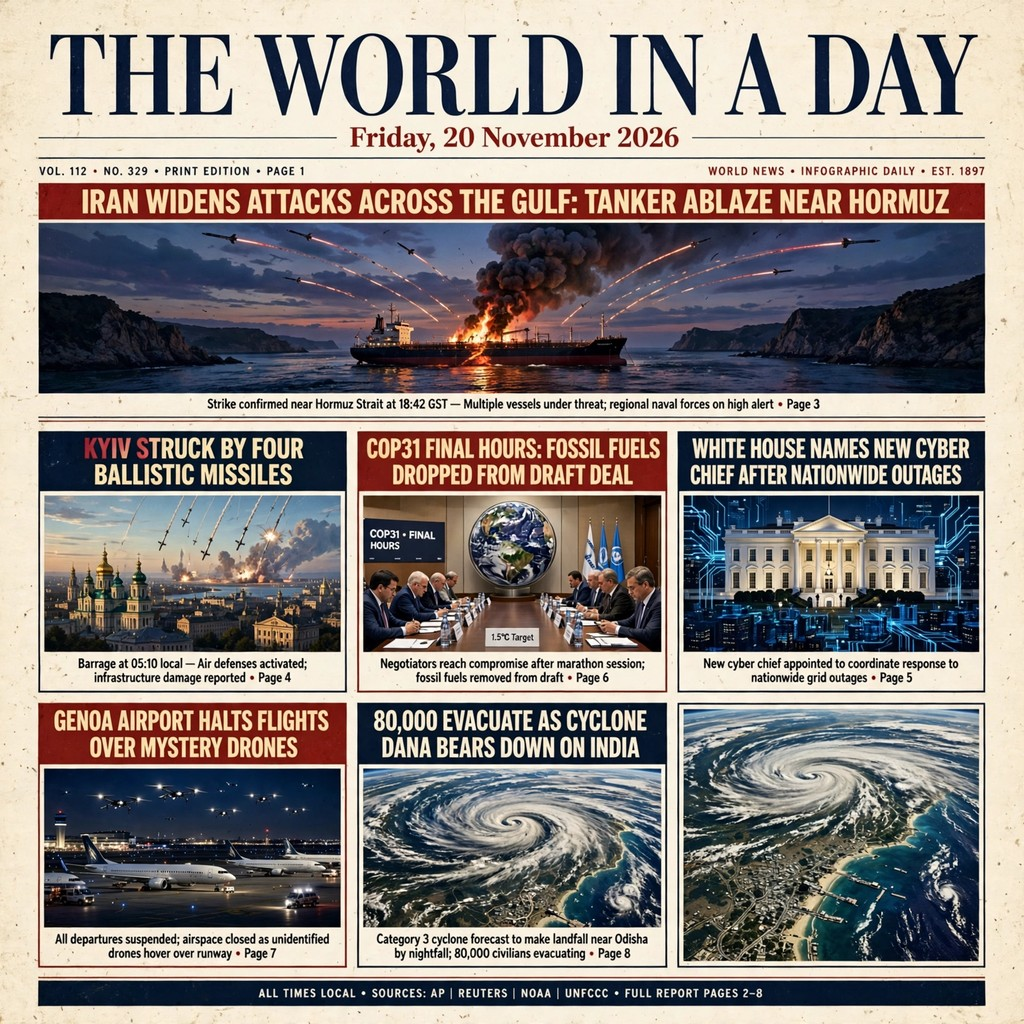
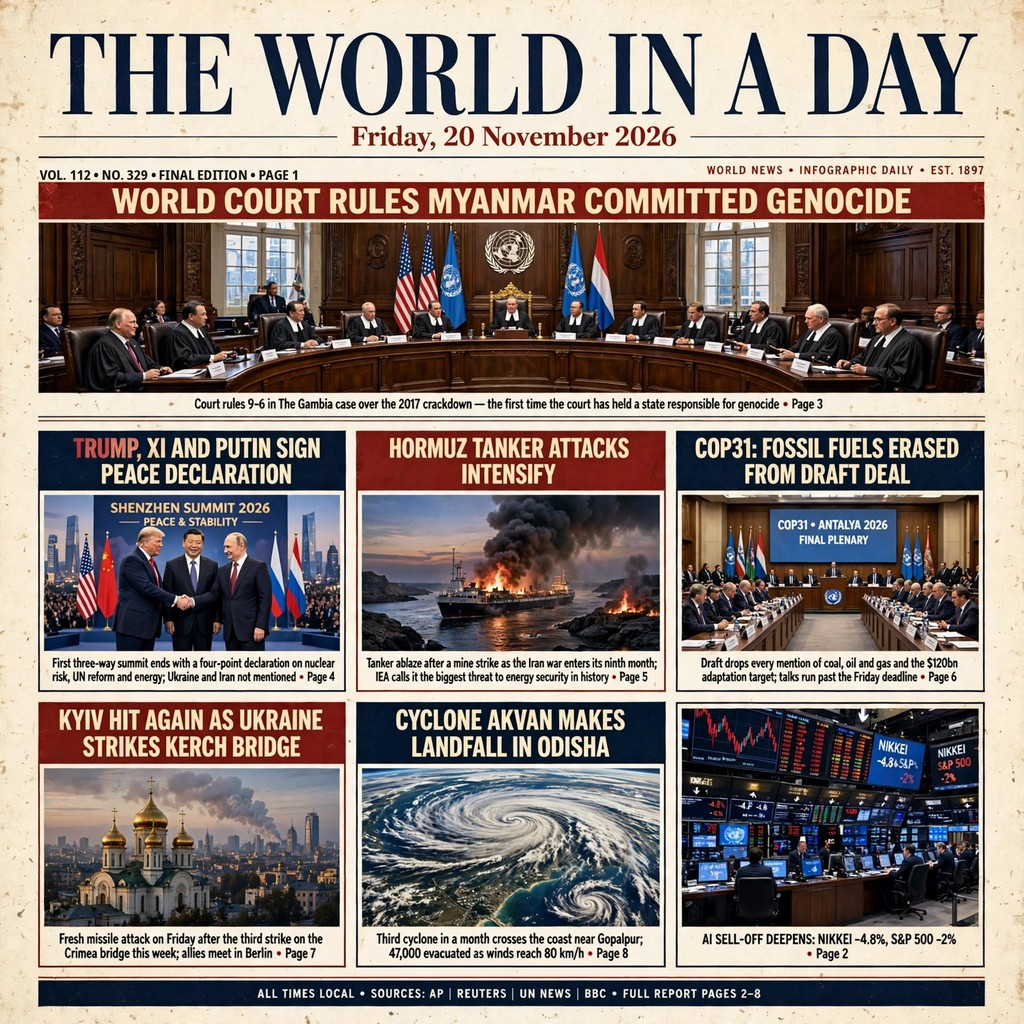
Final full-day edition: ICJ genocide ruling leads, Shenzhen declaration, Hormuz, COP31, Kyiv, Cyclone Akvan
Replace the morning front page with the full-day edition of 20 Nov 2026:
main headline is the ICJ ruling that Myanmar committed genocide
against the Rohingya (9-6, a first for the court), plus the Trump-Xi-
Putin peace declaration from Shenzhen, intensifying Hormuz tanker
attacks, COP31 running past deadline with fossil fuels erased from
the draft, a fresh missile attack on Kyiv, Cyclone Akvan's landfall
in Odisha, and the deepening AI sell-off in markets.

diff --git a/README.md b/README.md
@@ -5,20 +5,26 @@
 [![reward](https://make.fun/badge/news-image-20261120/unuzura71/news-image-20261120-unuzura71/reward.svg)](https://make.fun/bounty/news-image-20261120?utm_source=github&utm_medium=readme&utm_campaign=news-image-20261120)
 
 **The World in a Day** — one image that sums up the world news of Friday, 20 November 2026,
-drawn as a vintage newspaper front page. The day's front page, as this entry tells it:
+drawn as a vintage newspaper front page. This is the final, full-day edition, replacing the
+morning edition with the day's biggest stories as they stood by evening. The day's front page,
+as this entry tells it:
 
-- **The Gulf** — Iran widened its attacks across the Gulf states; a tanker hit a mine and
-  caught fire east of the Strait of Hormuz, and the IEA called the crisis the greatest
-  threat ever observed to energy security.
-- **Kyiv** — the Ukrainian capital was hit by four ballistic missiles in the early hours,
-  while Russia struck Saratov region and Putin pressed European leaders for a position
-  on peace talks.
-- **Antalya** — COP31 entered its final hours with negotiators still split, after fossil
-  fuels were dropped from the draft climate deal.
-- **Washington** — the White House named Kirsten Davies its new cyber chief after
-  widespread outages across the United States.
-- **Genoa** — the airport suspended flights after unidentified drones were detected.
-- **India** — more than 80,000 people evacuated as tropical storm Dana approached the coast.
+- **The Hague** — the International Court of Justice ruled 9–6 that Myanmar committed
+  genocide against the Rohingya, the first time the court has held a state responsible
+  for genocide.
+- **Shenzhen** — Trump, Xi and Putin held their first three-way summit and signed a
+  four-point peace declaration on nuclear risk, UN reform and energy; Ukraine and Iran
+  were not mentioned.
+- **The Gulf** — Iran stepped up tanker attacks in the Strait of Hormuz; a tanker hit a mine
+  and caught fire, and the IEA called the crisis the greatest threat ever observed to
+  energy security.
+- **Antalya** — COP31 ran past its Friday deadline after the draft deal dropped every
+  mention of fossil fuels and the $120bn adaptation target.
+- **Kyiv** — a fresh missile attack hit the capital on Friday after Ukraine struck the
+  Kerch Bridge for the third time in a week; allies met in Berlin.
+- **India** — Cyclone Akvan made landfall near Gopalpur, Odisha, the third cyclone in a
+  month; 47,000 people had been evacuated.
+- **Markets** — the AI sell-off deepened: Japan's Nikkei fell 4.8% and the S&P 500 lost 2%.
 
 The repository holds the picture as `entry.png` and a small Node program, `main.ts`, that
 copies it, byte for byte, to the output folder — no network, no dependencies, the same
